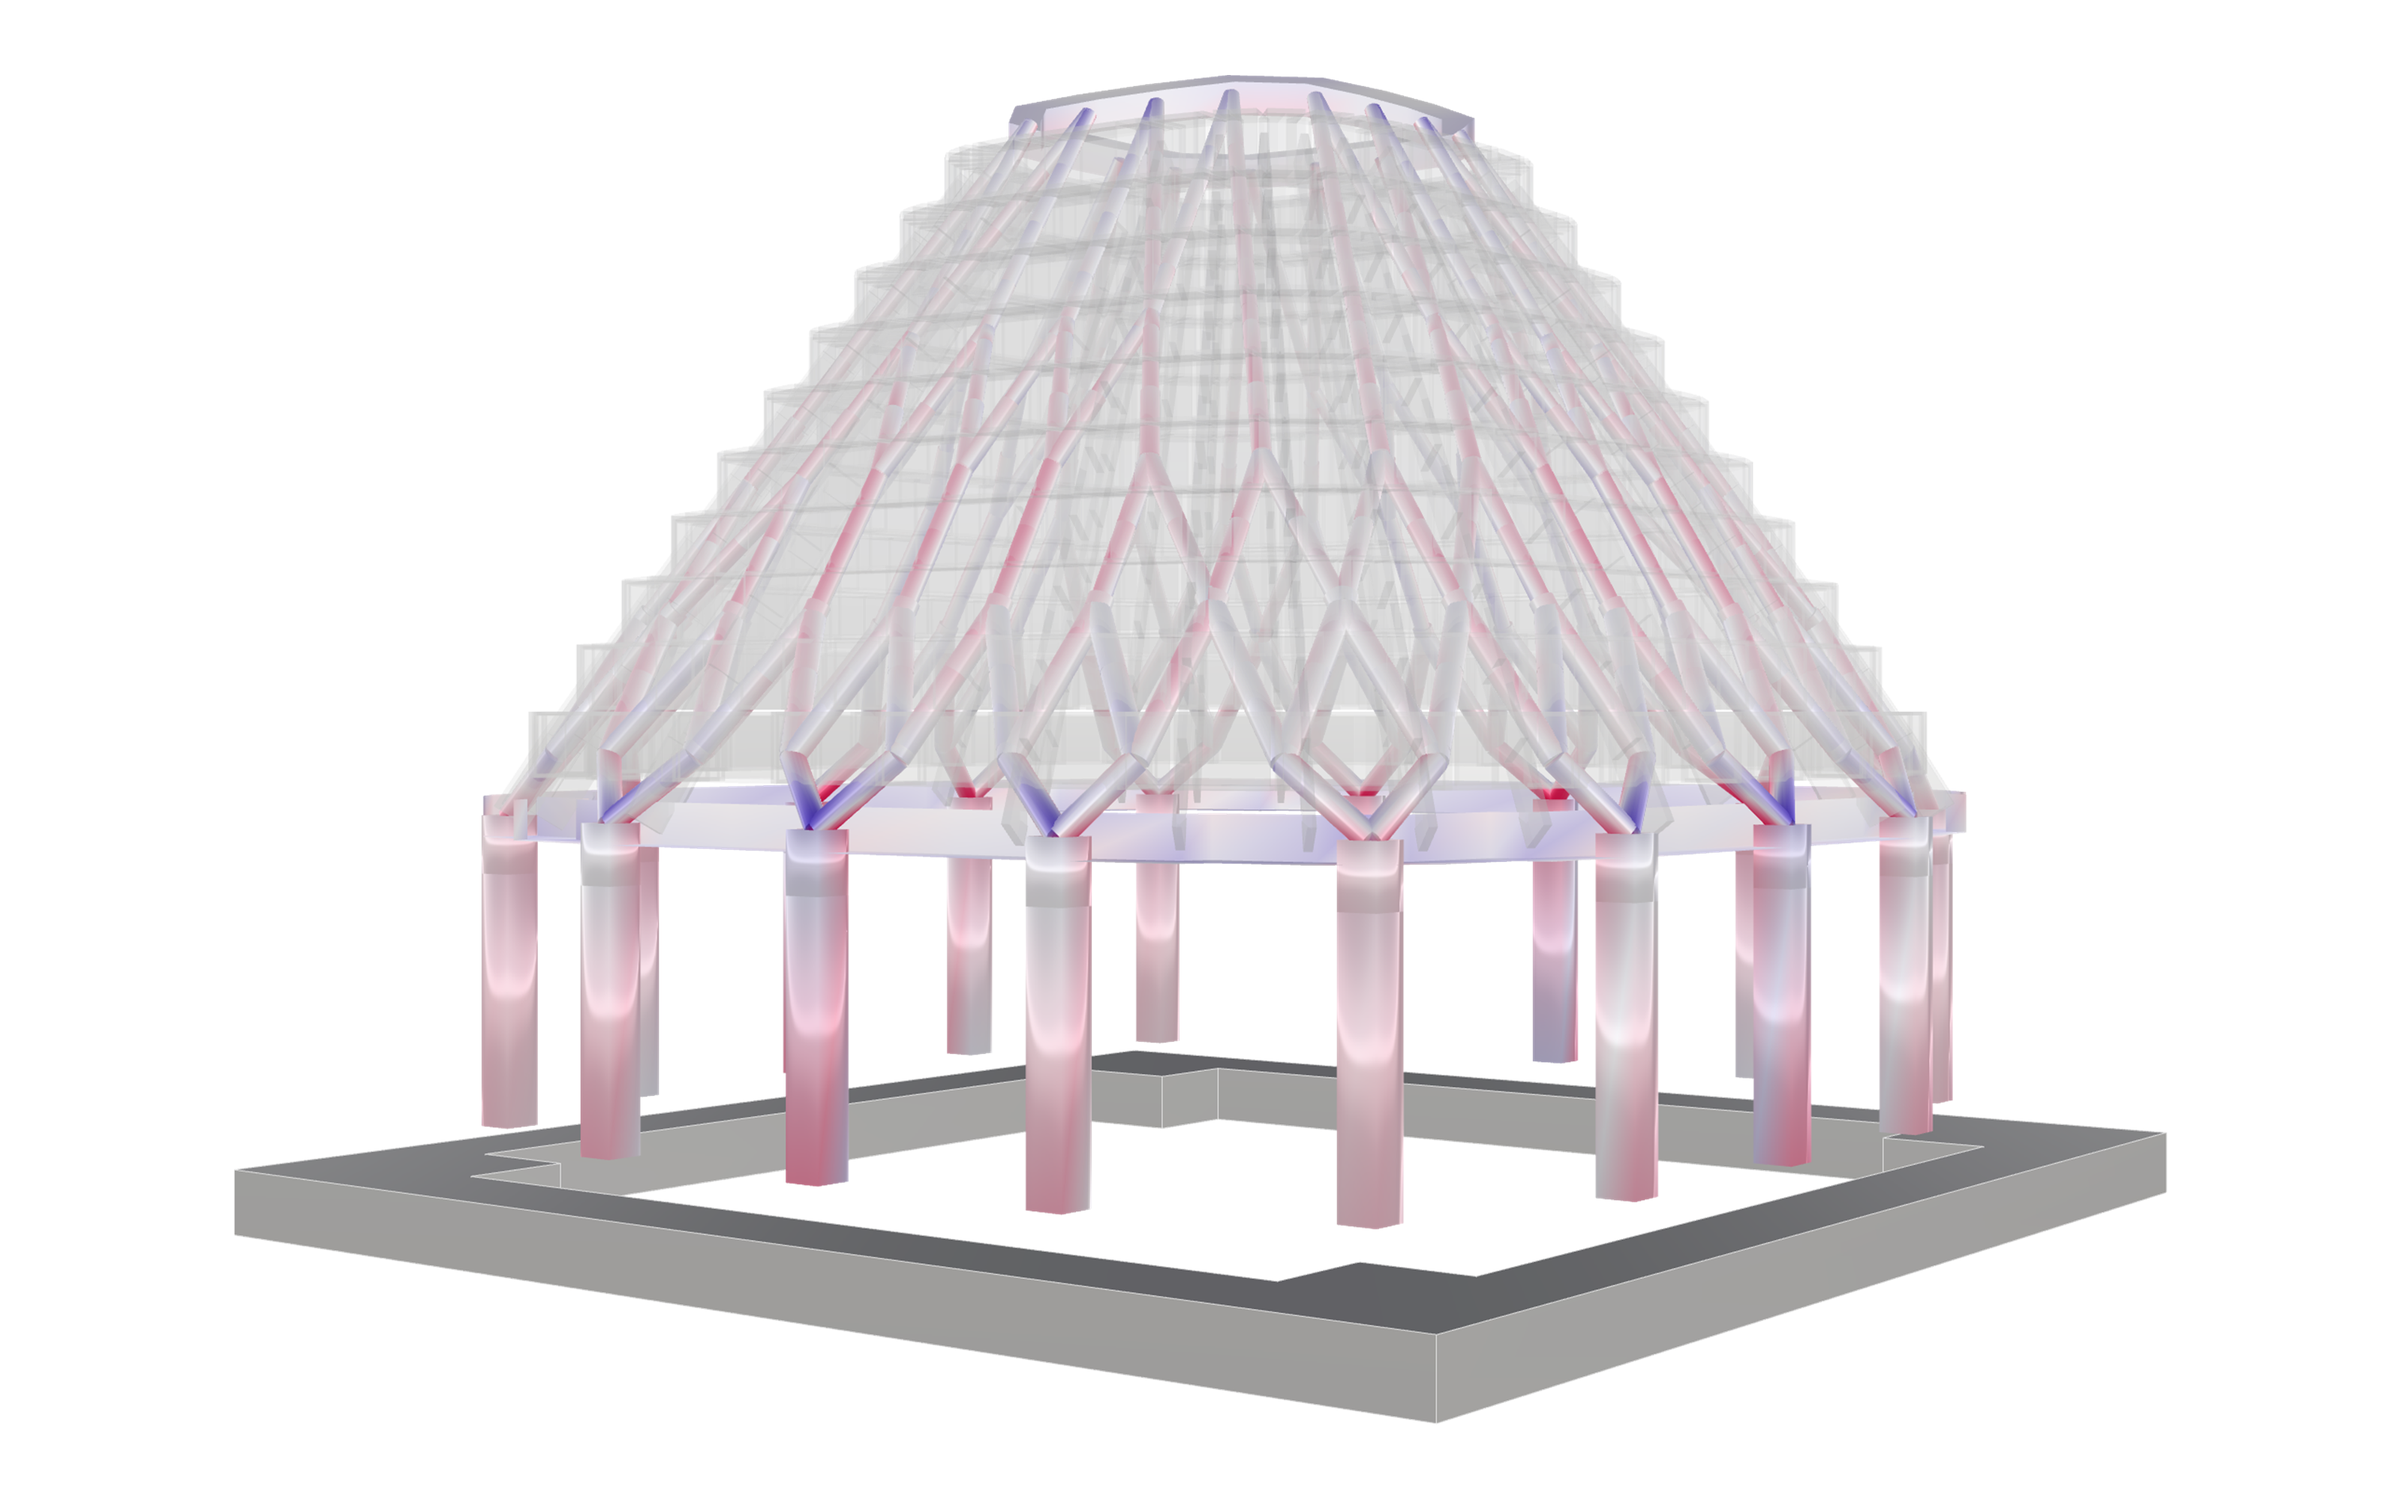
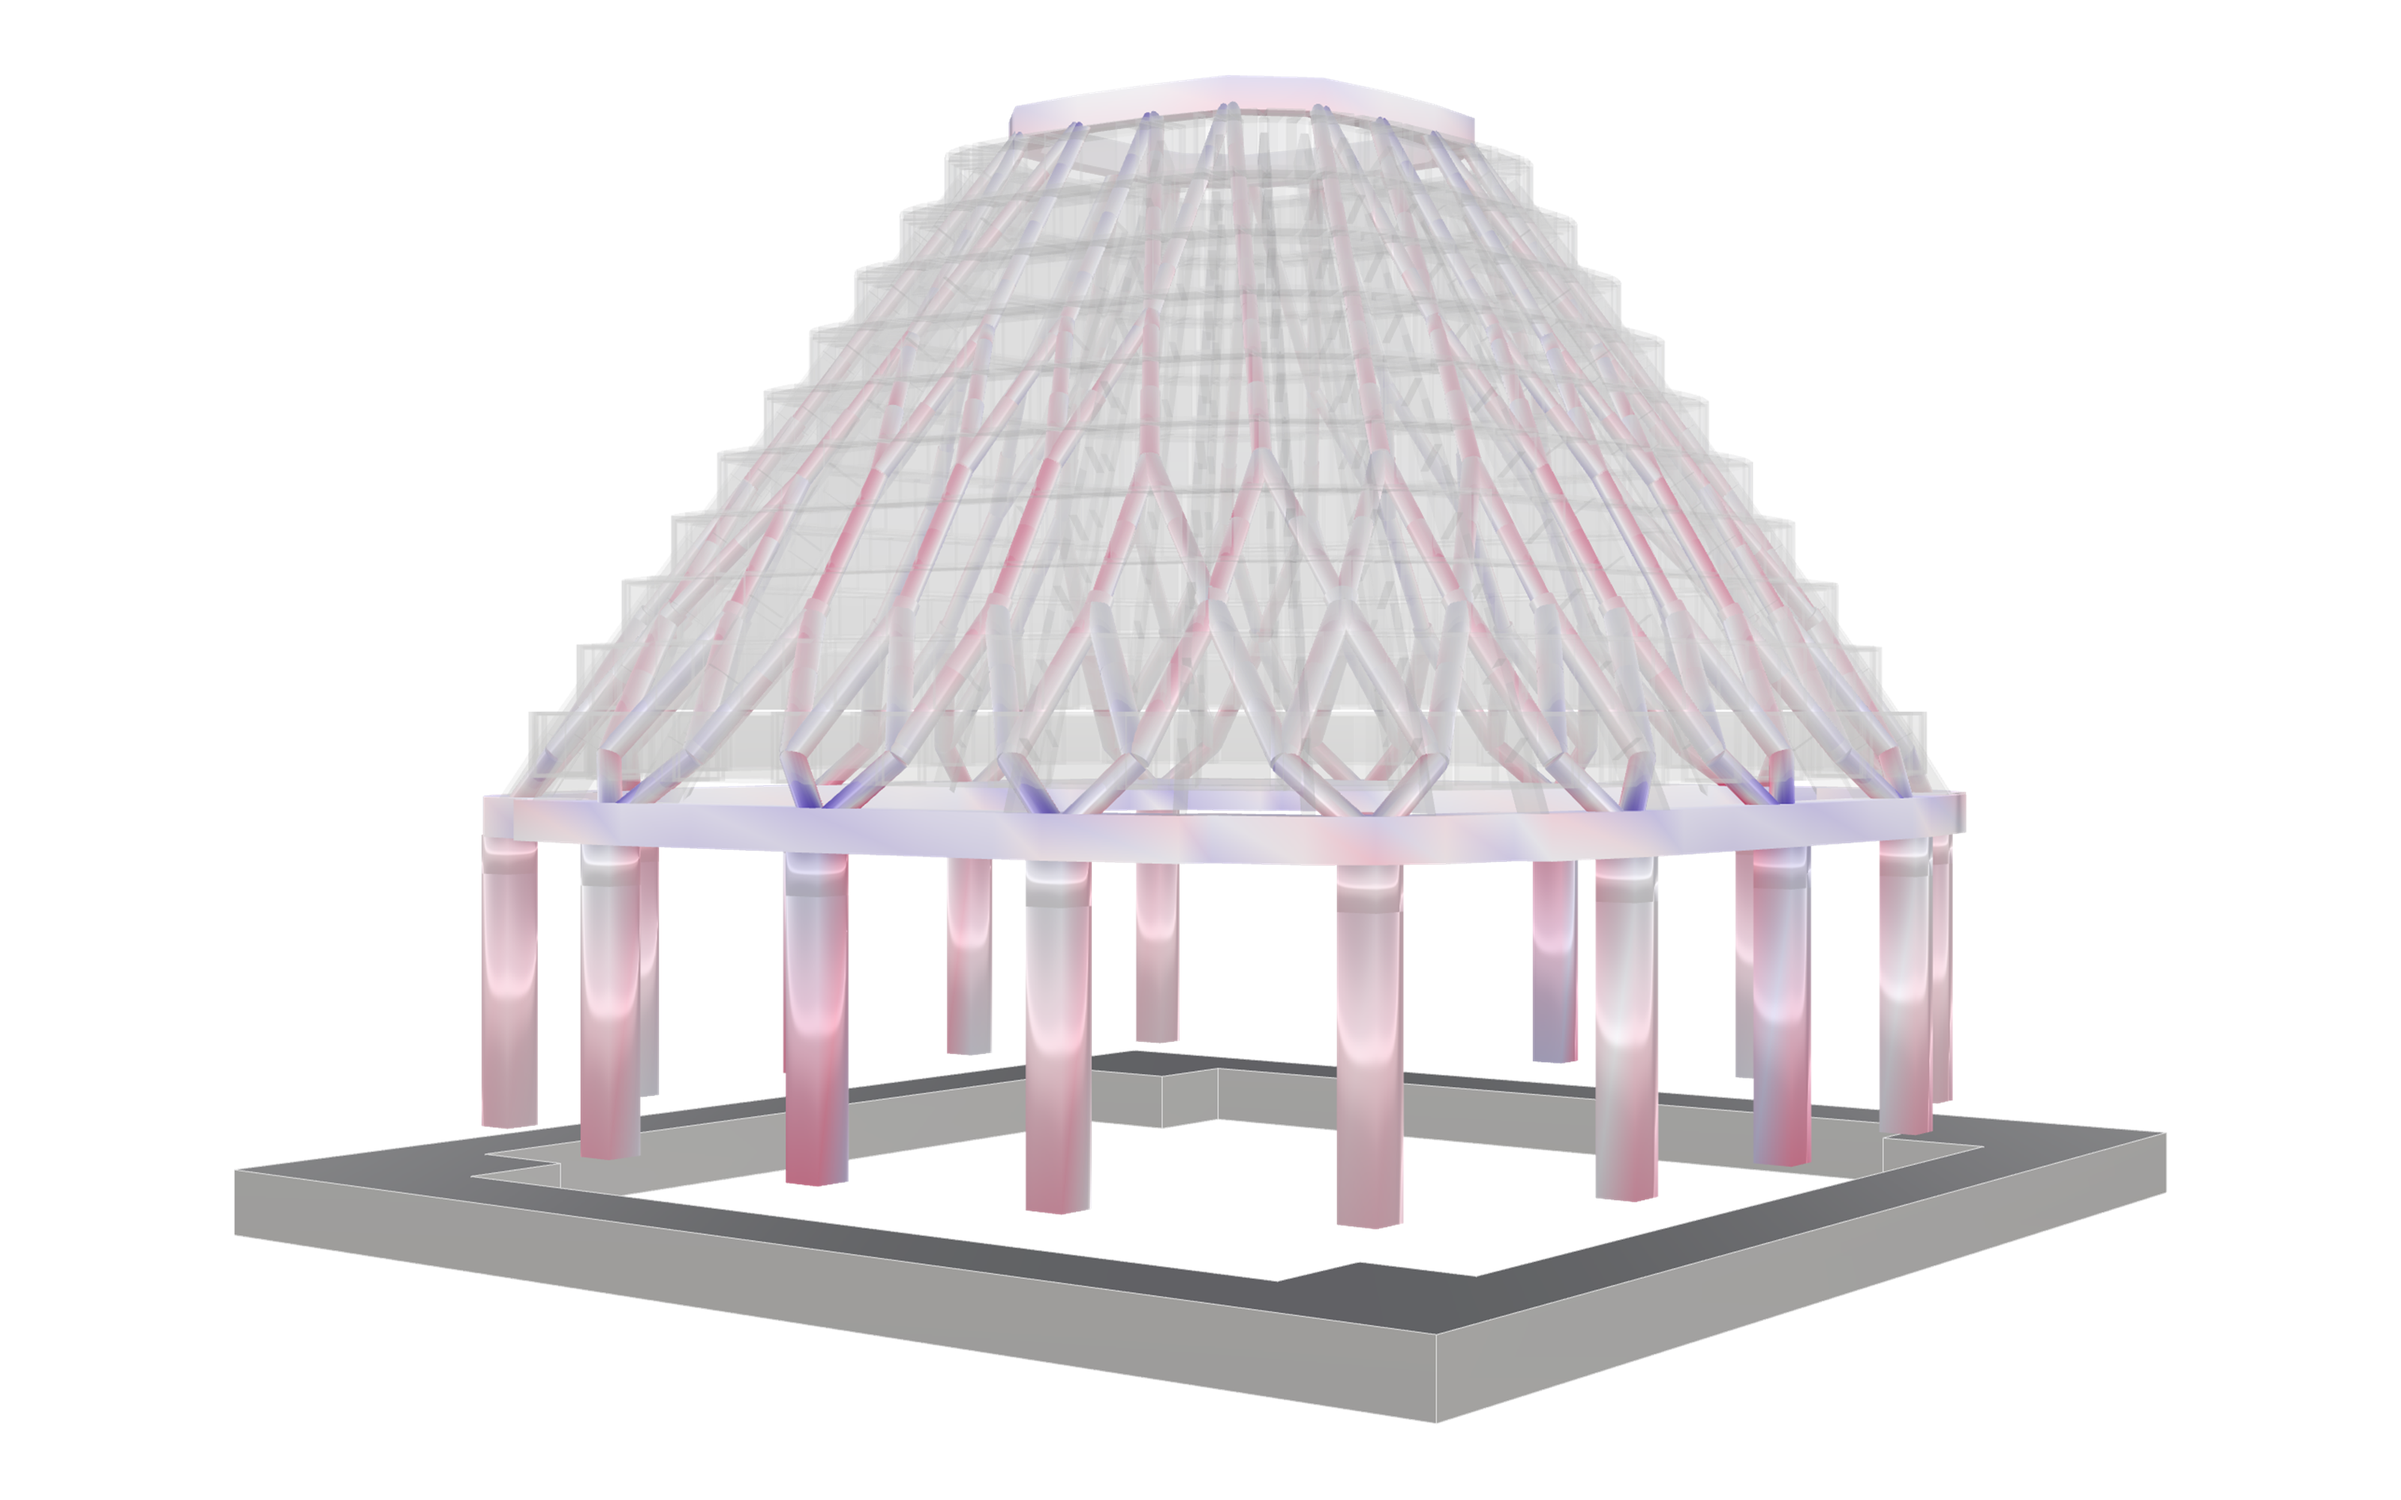
Karamba-model renders: rings opaque with outward normals, columns stop at the ring underside

diff --git a/details/karamba/2026-11-23/k_mitre_rings.py b/details/karamba/2026-11-23/k_mitre_rings.py
@@ -55,6 +55,11 @@ def build(doc, roof, lc, lim, layer_index, sect=None):
             for n in E[i][1:3]: at.setdefault(n, []).append(i)
         for i in ids:
             _, na, nb = E[i]; pa, pb = G.Point3d(*N[na]), G.Point3d(*N[nb])
+            if g == "column":                          # stop the column at the ring underside (no box above the ring)
+                zr = max(N[n][2] for e2 in groups["ring"] for n in E[e2][1:3]) - S["ring"][1] / 2
+                if pa.Z > zr: pa = G.Point3d(pa.X, pa.Y, zr)
+                if pb.Z > zr: pb = G.Point3d(pb.X, pb.Y, zr)
+                if pa.DistanceTo(pb) < 1e-3: continue
             x, y, z = axes(pa, pb); L = pa.DistanceTo(pb)
             ends = []
             for t, (n, p, xin) in enumerate(((na, pa, x), (nb, pb, -x))):
@@ -154,6 +159,8 @@ def loops(N, E, F, ids, sect, lim):
                 base = m.Vertices.Count
                 for c in range(4): m.Vertices.Add(P[k][c]); m.VertexColors.Add(C[k][c])
                 m.Faces.AddFace(base, base + 1, base + 2, base + 3) if k else m.Faces.AddFace(base + 3, base + 2, base + 1, base)
-        m.Normals.ComputeNormals(); m.UnifyNormals(); m.Normals.ComputeNormals()
+        m.UnifyNormals(); m.Normals.ComputeNormals()
+        if m.IsClosed and m.Volume() < 0: m.Flip(True, True, True)   # outward normals: lit like the ribs, not seen from inside
+        m.Normals.ComputeNormals()
         out.append(m)
     return out
